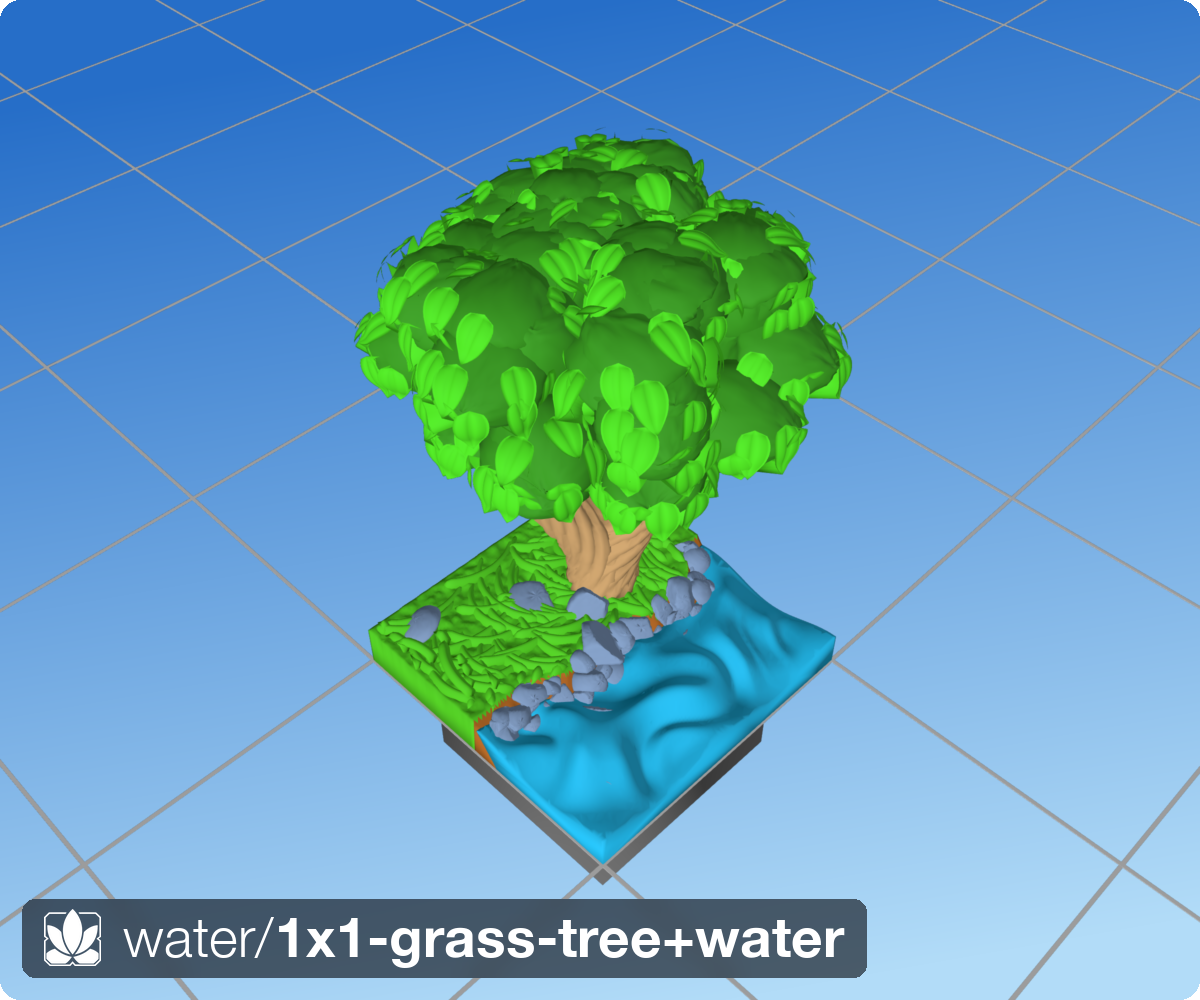
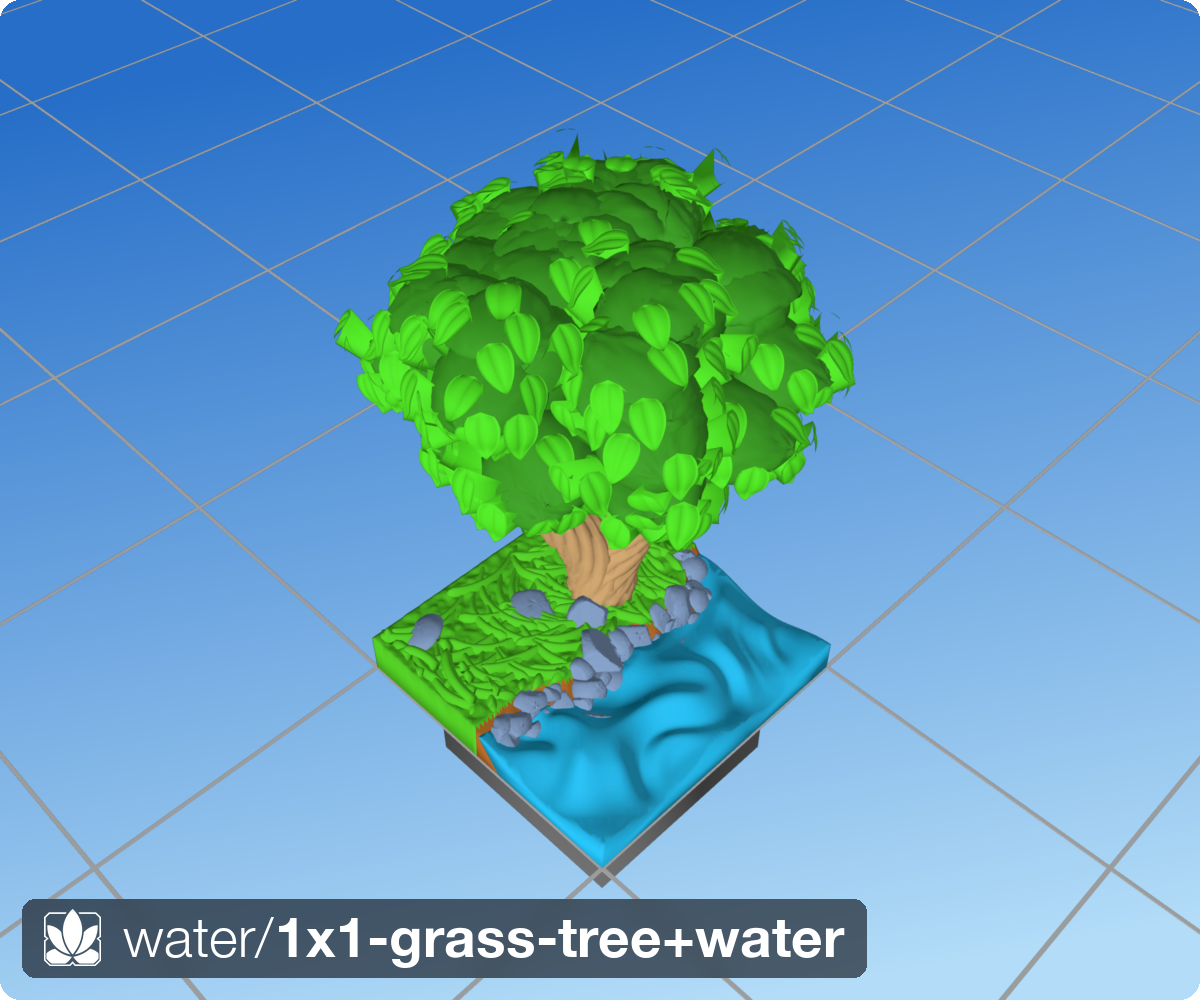
Greedy: cull/lift leaves buried in any parent clump or in a leaf below
Enforce two leaf-safety guarantees the single-shot pull-away missed:

1. No blade may stay buried in ANY parent clump. The one-shot pull only
   cleared the leaf's own SMOOTH mesh via on_surface+face-normal sign,
   which is unreliable on the tilted/self-overlapping swept clumps — a
   leaf could grow into its own body undetected. Now:
   - own clump: an iterative outward pull along the normal lifts the whole
     blade clear of the receded NOISED own clump (embree contains, reliable);
     a leaf that can't be lifted out within the standoff cap is culled.
   - neighbour clumps: cull-only (a leaf can't be pulled clear of a
     neighbour along its own normal), via a base-seam pre-cull plus a
     one-shot widest→tip test against neighbour clumps.

2. No widest→tip vertex may stay buried in a previously-placed leaf. A
   shared world-voxel occupancy grid records every placed leaf's blade;
   lowest-first ⇒ each new leaf lifts until its tip clears all lower
   leaves (base-tuck imbrication preserved — only the tip region is tested).

Burial clearance and tip-z ordering are folded into ONE loop: a naive
"clear then lift tip-z" order let the +Z tip-z lift (large, from the deep
3.1mm connection embed) shove a just-cleared blade back into the clump.

Perf: a cheap tip-in-clump pre-cull + one-shot (not per-iteration)
neighbour test keep the dense-canopy cost bounded — tile leaf placement
16.8s (par with meridian 20.6s), Tree 26.7s. Two-cluster 0.46s.
[…]

diff --git a/src/dharmatiles/trees/placement_greedy.py b/src/dharmatiles/trees/placement_greedy.py
@@ -185,18 +185,51 @@ def _shingle_write(occ: dict, cells: list[tuple[int, int, int]], layer: int) -> 
         occ[c] = occ.get(c, 0) | bit
 
 
-def _point_inside_any(meshes: list, pt: np.ndarray, near_pt: np.ndarray, reach: float) -> bool:
-    """True if ``pt`` is inside any neighbour solid (AABB-pruned by ``near_pt``).
+def _points_inside_any(meshes: list, pts: np.ndarray, near_pt: np.ndarray, reach: float) -> bool:
+    """True if ANY of ``pts`` is inside any neighbour solid (AABB-pruned by ``near_pt``).
 
-    Uses embree ``mesh.contains`` on a single point (~0.002 ms).  Neighbours the
-    candidate cannot reach (bbox expanded by ``reach``) are skipped.
+    Uses embree ``mesh.contains`` (fast; a hard dep).  Neighbours the leaf cannot
+    reach (bbox expanded by ``reach``) are skipped, so the test stays O(k) on a
+    dense canopy.  ``pts`` is a single point (shape (1,3)) for the seam pre-test
+    or the blade's widest→tip vertices for the burial test.
     """
-    p = pt[np.newaxis]
+    if len(pts) == 0:
+        return False
     for _m in meshes:
         _b = _m.bounds
         if (near_pt < _b[0] - reach).any() or (near_pt > _b[1] + reach).any():
             continue
-        if bool(_m.contains(p)[0]):
+        if bool(_m.contains(pts).any()):
+            return True
+    return False
+
+
+# ── Placed-leaf world-voxel occupancy (leaf-vs-leaf clearance) ─────────────────
+# A shared set of occupied world cells recording where every placed leaf's blade
+# surface sits.  A new leaf's widest→tip vertices are lifted along the surface
+# normal until none of them fall in an occupied cell — so no tip ends up buried
+# in a leaf below it.  Cell edge ≈ 2.5× the leaf thickness so a thin blade fully
+# occupies its cells (no gaps a tip could slip through).  Self-managed hash: no
+# trimesh.proximity, no per-leaf BVH, O(verts) per query.
+_LEAF_OCC_CELL_MM: float = 0.6
+# Outward step when lifting a leaf clear of obstacles, and the max total standoff
+# (own-mesh pull + clearance lift) before a leaf is deemed unplaceable and culled.
+_CLEAR_STEP_MM: float = 0.30
+_CLEAR_MAX_MM: float = 4.5
+
+
+def _occ_mark(leaf_occ: set, pts: np.ndarray, cell: float) -> None:
+    q = np.floor(np.asarray(pts, float) / cell).astype(np.int64)
+    for c in q:
+        leaf_occ.add((int(c[0]), int(c[1]), int(c[2])))
+
+
+def _occ_hit(leaf_occ: set, pts: np.ndarray, cell: float) -> bool:
+    if not leaf_occ or len(pts) == 0:
+        return False
+    q = np.floor(np.asarray(pts, float) / cell).astype(np.int64)
+    for c in q:
+        if (int(c[0]), int(c[1]), int(c[2])) in leaf_occ:
             return True
     return False
 
@@ -410,8 +443,13 @@ def place_leaves_greedy(
         bounds_radii.append(float(np.linalg.norm(b[1] - b[0]) * 0.5))
 
     # Neighbour lists (AABB/bounding-sphere pruned; same rule as the meridian
-    # cross-cluster prune) for the seam / no-valid-standoff test.
-    neighbours: list[list[trimesh.Trimesh]] = []
+    # cross-cluster prune) for the seam pre-test and the blade-burial cull.
+    # Burial is judged against the REAL (noised) neighbour clumps when supplied
+    # (a blade inside a neighbour's smooth envelope but outside its receded real
+    # surface is NOT actually buried — testing smooth would over-cull); falls
+    # back to the smooth envelopes otherwise.
+    burial_meshes = real_meshes if real_meshes is not None else meshes
+    neighbours: list[list[trimesh.Trimesh]] = []       # real neighbour clumps (cheap culls)
     for mi in range(n):
         nb = []
         for oi in range(n):
@@ -419,7 +457,7 @@ def place_leaves_greedy(
                 continue
             gap_c = float(np.linalg.norm(bounds_centers[mi] - bounds_centers[oi]))
             if gap_c <= bounds_radii[mi] + bounds_radii[oi] + L:
-                nb.append(meshes[oi])
+                nb.append(burial_meshes[oi])
         neighbours.append(nb)
 
     # ── Global z-ordered sweep ────────────────────────────────────────────────
@@ -427,10 +465,12 @@ def place_leaves_greedy(
 
     root_grid: set[tuple[int, int, int]] = set()   # claimed root cells (shared)
     occ: dict = {}                                  # shingle bitmask (shared)
+    leaf_occ: set[tuple[int, int, int]] = set()     # placed-leaf blade cells (shared)
     n_rejected_root = 0
     n_rejected_seam = 0
     n_rejected_sat = 0
     n_rejected_thin = 0
+    n_rejected_buried = 0
 
     for cand in all_cands:
         mi = cand.mesh_id
@@ -448,8 +488,8 @@ def place_leaves_greedy(
         # Seam / no-valid-standoff (native cross-cluster): if pulling out along
         # the normal immediately re-enters a neighbour, there is no standoff that
         # clears every mesh — pack up to the crease and drop this candidate.
-        if neighbours[mi] and _point_inside_any(
-            neighbours[mi], base + _SEAM_EPS_MM * normal, base, L,
+        if neighbours[mi] and _points_inside_any(
+            neighbours[mi], (base + _SEAM_EPS_MM * normal)[np.newaxis], base, L,
         ):
             n_rejected_seam += 1
             continue
@@ -598,34 +638,87 @@ def place_leaves_greedy(
             signed -= pull_away
             burial_d = 0.0
 
+        # ── Clear ALL remaining obstacles: parent clumps + placed leaves ───────
+        # Two guarantees, lifting the blade along the surface normal:
+        #  1. No part of the blade may stay buried in ANY parent clump (its own
+        #     included — a leaf on a tilted/self-overlapping clump can grow into
+        #     the body).  Judged over the whole blade minus the base cap (which
+        #     legitimately seats at the surface) against the receded NOISED
+        #     clumps.  A leaf oriented INTO a clump cannot be lifted out along its
+        #     normal, so it hits the cap and is culled — correctly not leaf-safe.
+        #  2. No widest→tip vertex may stay buried in a previously-placed leaf.
+        #     Lowest-first ⇒ every placed leaf is lower, so this leaf sits ENTIRELY
+        #     above them; a later, higher leaf tucks ITS base over this one
+        #     (imbrication), which is why only the tip region is tested here.
+        # This runs LAST (after the tip-z lift is folded in) so the committed
+        # geometry — not an intermediate — satisfies both guarantees.  Burial
+        # clearance and tip-z ordering are enforced together: a naive "clear then
+        # lift tip-z" order let the +Z tip-z lift shove a just-cleared blade back
+        # into the clump.  Each iteration moves outward along the normal while any
+        # blade vertex is buried, else lifts +Z while the visible tip sits at/below
+        # the embedded root tip; it exits only when BOTH hold.  Both moves are
+        # up/outward, so tip-z trends up and burial trends clear; a leaf that
+        # can't satisfy both within the standoff cap is not leaf-safe and culled.
+        # Cross-clump burial: a leaf cannot be pulled clear of a NEIGHBOUR along
+        # its own normal, so neighbour burial is cull-only — but done ONCE here
+        # (not per iteration) so the dense-canopy many-neighbours cost stays
+        # bounded.  If any widest→tip blade vertex lands inside a neighbour clump
+        # the blade crosses into it — cull.  (Base→neighbour is pre-culled above.)
+        nbrs = neighbours[mi]
+        own_mesh = burial_meshes[mi]
+        if nbrs and _points_inside_any(nbrs, surf.vertices[curl_mask], pt3d, L):
+            n_rejected_buried += 1
+            stats.skipped_cross_buried += 1
+            continue
+        # A blade whose TIP is inside its OWN clump grows into the body and cannot
+        # be lifted out along the normal — cull without grinding the loop to the cap.
+        if bool(own_mesh.contains(surf.vertices[tip_idx][np.newaxis])[0]):
+            n_rejected_buried += 1
+            stats.skipped_cross_buried += 1
+            continue
+
+        oval_tip_i = len(surf.vertices) + tip_idx
+        tip_z_lift = 0.0
+        still_buried = False
+        while True:
+            buried = (
+                _occ_hit(leaf_occ, surf.vertices[curl_mask], _LEAF_OCC_CELL_MM)
+                or bool(own_mesh.contains(surf.vertices).any())
+            )
+            tip_z_clearance = float(solid.vertices[tip_idx, 2] - solid.vertices[oval_tip_i, 2])
+            tip_z_ok = tip_z_clearance >= _TIP_Z_CLEARANCE_MM
+            if not buried and tip_z_ok:
+                break
+            if pull_away + _CLEAR_STEP_MM > _CLEAR_MAX_MM:
+                still_buried = True
+                break
+            if buried:
+                step_vec = _CLEAR_STEP_MM * normal          # lift clear along normal
+                signed -= _CLEAR_STEP_MM
+            else:
+                step_vec = np.array([0.0, 0.0, _CLEAR_STEP_MM])   # +Z for tip-z ordering
+                tip_z_lift += _CLEAR_STEP_MM
+            surf.vertices += step_vec
+            solid.vertices[:len(surf.vertices)] += step_vec
+            pull_away += _CLEAR_STEP_MM
+        if still_buried:
+            n_rejected_buried += 1
+            stats.skipped_cross_buried += 1
+            continue
+        tip_z_clearance = float(solid.vertices[tip_idx, 2] - solid.vertices[oval_tip_i, 2])
+
         curl_signed = signed[curl_mask] if curl_mask.any() else np.empty(0)
         float_d = (
             float((-curl_signed[curl_signed < 0.0]).max())
             if np.any(curl_signed < 0.0) else 0.0
         )
 
-        # ── Tip-z ordering: visible blade tip above the embedded root-oval tip ─
-        tip_z_lift = 0.0
-        tip_z_clearance = float(
-            solid.vertices[tip_idx, 2] - solid.vertices[len(surf.vertices) + tip_idx, 2]
-        )
-        if tip_z_clearance < _TIP_Z_CLEARANCE_MM:
-            tip_z_lift = _TIP_Z_CLEARANCE_MM - tip_z_clearance
-            lift_vec = np.array([0.0, 0.0, tip_z_lift])
-            surf.vertices += lift_vec
-            solid.vertices[:len(surf.vertices)] += lift_vec
-            tip_z_clearance = float(
-                solid.vertices[tip_idx, 2] - solid.vertices[len(surf.vertices) + tip_idx, 2]
-            )
-        if tip_z_clearance <= 0.0:
-            raise AssertionError(
-                "greedy leaf surface tip z must be above root oval tip z "
-                f"(clearance={tip_z_clearance:.6f}, mesh={mi}, cand={cand.idx})"
-            )
-
         # ── COMMIT ────────────────────────────────────────────────────────────
         _shingle_write(occ, cells, layer)
         root_grid.add(_root_cell(base, gap))
+        # Record this leaf's blade footprint so later (higher) leaves lift clear
+        # of it instead of burying a tip in it.
+        _occ_mark(leaf_occ, surf.vertices, _LEAF_OCC_CELL_MM)
 
         row_idx = int((float(pt3d[2]) - z_mins[mi]) / expected_row_step)
         stats.base_positions.append(pt3d.copy())
@@ -656,7 +749,7 @@ def place_leaves_greedy(
             f"\n── greedy leaf placement ──  {placed} placed  "
             f"({len(all_cands)} candidates: root-rej={n_rejected_root} "
             f"seam-rej={n_rejected_seam} thin-rej={n_rejected_thin} "
-            f"sat-rej={n_rejected_sat})  {elapsed:.3f}s\n"
+            f"sat-rej={n_rejected_sat} buried-rej={n_rejected_buried})  {elapsed:.3f}s\n"
         )
 
     return parts_list, stats_list

diff --git a/src/scripts/test-greedy-leaf-placement.py b/src/scripts/test-greedy-leaf-placement.py
@@ -31,7 +31,7 @@ import numpy as np
 from dharmatiles.trees._utils import _safe_norm
 from dharmatiles.trees.mesh import _build_foliage_cluster_mesh
 from dharmatiles.trees.leaf import _LEAF_N_LONG, _LEAF_N_LAT
-from dharmatiles.trees.placement_greedy import place_leaves_greedy
+from dharmatiles.trees.placement_greedy import place_leaves_greedy, _LEAF_OCC_CELL_MM
 
 _LEAF = dict(
     length_mm      = 4.5,
@@ -94,24 +94,52 @@ def main() -> int:
     print(f"placed {total} leaves in {elapsed:.3f}s "
           f"(A={len(parts[0])}, B={len(parts[1])})")
 
-    # 2 + 3 + 4. Per-leaf correctness.
+    # 2 + 3 + 4 + 6 + 7. Per-leaf correctness.
+    L = float(_LEAF["length_mm"])
+    base_i = _N_OUTER - 2                       # base_pt vertex (surface layout)
+    tip_i = _N_OUTER - 1                        # tip_pt vertex
+    cell = _LEAF_OCC_CELL_MM
     n_nonwatertight = 0
     n_disconnected = 0
     n_tipz = 0
-    for mi, leaves in enumerate(parts):
-        for leaf in leaves:
-            if not leaf.is_watertight:
-                n_nonwatertight += 1
-            # Inner oval = second half of the stacked solid vertices.
-            if len(leaf.vertices) >= 2 * _N_OUTER:
-                oval = leaf.vertices[_N_OUTER:2 * _N_OUTER]
-                inside = noised[mi].contains(oval)
-                if int(inside.sum()) == 0:
-                    n_disconnected += 1
-            # Tip-z: visible blade tip (outer tip) above embedded root tip.
-            tip_i = _N_OUTER - 1
-            if leaf.vertices[tip_i, 2] <= leaf.vertices[_N_OUTER + tip_i, 2]:
-                n_tipz += 1
+    n_buried_mesh = 0
+    n_buried_leaf = 0
+
+    # Flatten leaves + collect each leaf's widest→tip (blade) vertices.
+    flat = [(mi, leaf) for mi, leaves in enumerate(parts) for leaf in leaves]
+    tip_pts_all: list[np.ndarray] = []
+    # Voxel occupancy of every leaf's full blade surface → which leaf ids own a cell.
+    cell_owners: dict[tuple, set] = {}
+    for gid, (mi, leaf) in enumerate(flat):
+        outer = leaf.vertices[:_N_OUTER]
+        base = leaf.vertices[base_i]
+        tip_half = outer[np.linalg.norm(outer - base, axis=1) > (L / 2.0)]
+        tip_pts_all.append(tip_half)
+        q = np.floor(outer / cell).astype(np.int64)
+        for c in q:
+            cell_owners.setdefault((int(c[0]), int(c[1]), int(c[2])), set()).add(gid)
+
+    for gid, (mi, leaf) in enumerate(flat):
+        if not leaf.is_watertight:
+            n_nonwatertight += 1
+        if len(leaf.vertices) >= 2 * _N_OUTER:
+            oval = leaf.vertices[_N_OUTER:2 * _N_OUTER]
+            if int(noised[mi].contains(oval).sum()) == 0:
+                n_disconnected += 1
+        if leaf.vertices[tip_i, 2] <= leaf.vertices[_N_OUTER + tip_i, 2]:
+            n_tipz += 1
+
+        tip_half = tip_pts_all[gid]
+        # Requirement 1: widest→tip blade must not be buried in ANY parent clump.
+        if any(int(nm.contains(tip_half).sum()) > 0 for nm in noised):
+            n_buried_mesh += 1
+        # Requirement 2: no tip vertex buried in ANOTHER leaf's blade.
+        q = np.floor(tip_half / cell).astype(np.int64)
+        for c in q:
+            owners = cell_owners.get((int(c[0]), int(c[1]), int(c[2])))
+            if owners and (owners - {gid}):
+                n_buried_leaf += 1
+                break
 
     if n_nonwatertight:
         failures.append(f"{n_nonwatertight}/{total} leaves not watertight")
@@ -122,10 +150,20 @@ def main() -> int:
         )
     if n_tipz:
         failures.append(f"{n_tipz}/{total} leaves have blade tip at/below root tip")
+    if n_buried_mesh:
+        failures.append(
+            f"{n_buried_mesh}/{total} leaves have their widest→tip blade buried in a parent clump"
+        )
+    if n_buried_leaf:
+        failures.append(
+            f"{n_buried_leaf}/{total} leaves have a tip vertex buried in another leaf"
+        )
 
     print(f"watertight={total - n_nonwatertight}/{total}  "
           f"root-connected={total - n_disconnected}/{total}  "
           f"tip-z-ok={total - n_tipz}/{total}")
+    print(f"blade-clear-of-mesh={total - n_buried_mesh}/{total}  "
+          f"tip-clear-of-leaves={total - n_buried_leaf}/{total}")
 
     # 5. Determinism.
     parts2, stats2 = place_leaves_greedy(
